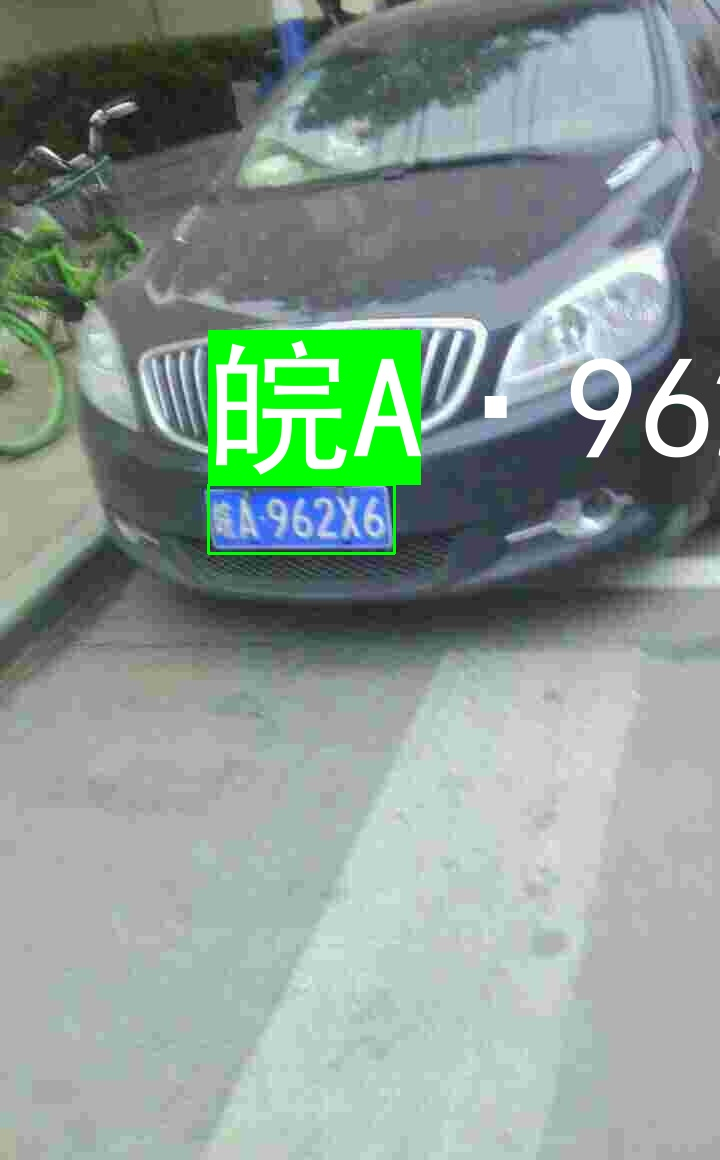
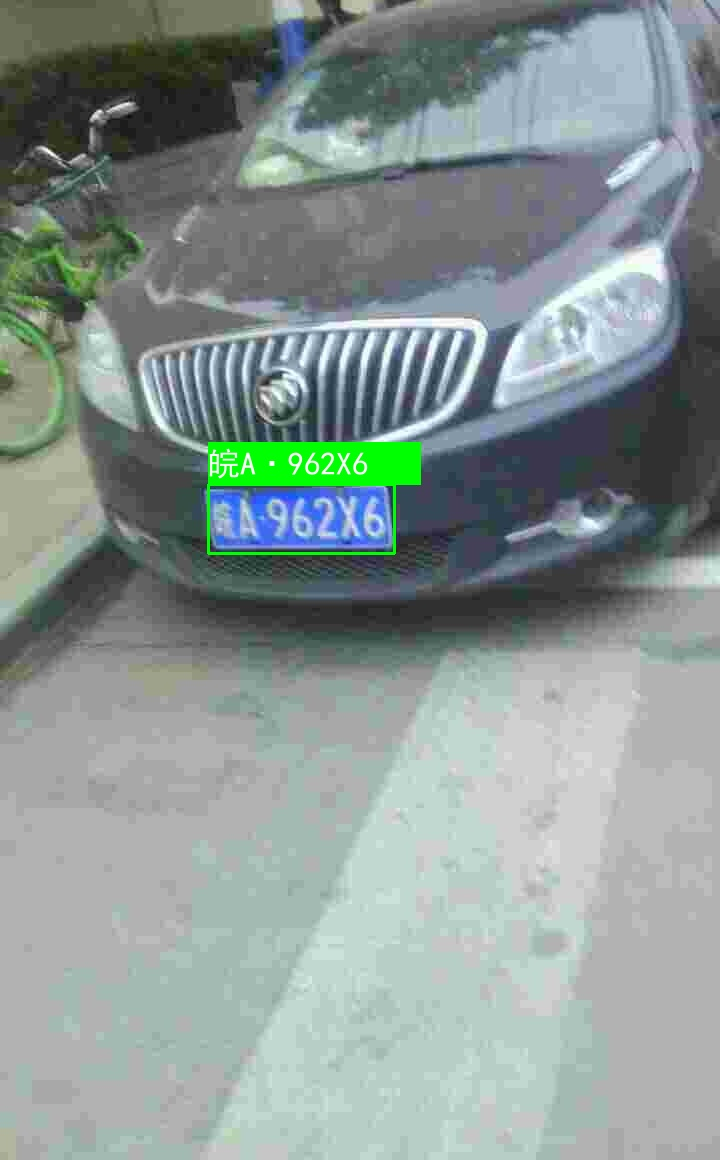
feat: Add YOLO solution files

Changed region(s): [[0.275, 0.2793, 0.6111, 0.4345], [0.7944, 0.3103, 1.0, 0.4034], [0.6722, 0.3414, 0.7028, 0.3724]]

diff --git a/YOLO/姚金言202511160210/必要的项目源代码/test.py b/YOLO/姚金言202511160210/必要的项目源代码/test.py
@@ -1,0 +1,155 @@
+
+# -*- coding: utf-8 -*-
+
+import warnings
+import os
+from ultralytics import YOLO
+import cv2
+import numpy as np
+
+from paddleocr import PaddleOCR
+from PIL import Image, ImageDraw, ImageFont # 导入Pillow库
+
+# 忽略一些不必要的警告信息
+warnings.filterwarnings('ignore')
+
+
+def process_plate_with_user_logic(image_data, ocr_engine, lang='ch'):
+
+    full_text = ""
+    try:
+        if image_data is None or image_data.size == 0:
+            print("错误：传入的图像数据为空")
+            return "Error"
+        print(f"    -> 传入OCR的图片尺寸：{image_data.shape[1]}x{image_data.shape[0]}")
+        print("    -> 正在执行OCR识别...")
+        result = ocr_engine.predict(input=image_data)
+        if not result or not result[0]:
+            print("    -> 未检测到任何文字")
+            return "No Text"
+
+        ocr_result = result[0]
+        if isinstance(ocr_result, dict) and 'rec_texts' in ocr_result:
+            rec_texts = ocr_result['rec_texts']
+        elif hasattr(ocr_result, 'rec_texts'):
+            rec_texts = ocr_result.rec_texts
+        else:
+            return "Format Error"
+        if not rec_texts:
+            return "No Text"
+        full_text = ''.join(rec_texts)
+        print(f"    车牌号: {full_text}")
+    except Exception as e:
+        print(f"    OCR识别过程中发生错误：{e}")
+        full_text = "OCR Error"
+    return full_text
+
+def draw_text_with_chinese(image, text, position, font_path, font_size):
+
+    # 将OpenCV图像 (BGR) 转换为Pillow图像 (RGB)
+    img_pil = Image.fromarray(cv2.cvtColor(image, cv2.COLOR_BGR2RGB))
+
+    # 创建一个画笔
+    draw = ImageDraw.Draw(img_pil)
+
+    # 加载字体
+    try:
+        font = ImageFont.truetype(font_path, font_size, encoding="utf-8")
+    except IOError:
+        print(f"警告：无法加载字体文件 {font_path}。将使用默认字体（不支持中文）。")
+        font = ImageFont.load_default()
+
+    # 绘制文本 (白色)
+    draw.text(position, text, font=font, fill=(255, 255, 255))
+
+    # 将Pillow图像转换回OpenCV图像 (BGR)
+    img_cv2 = cv2.cvtColor(np.array(img_pil), cv2.COLOR_RGB2BGR)
+
+    return img_cv2
+
+
+def main():
+
+    # --- 1. 初始化模型 ---
+    print("正在初始化YOLO模型...")
+    yolo_model = YOLO(r'C:\Users\27800\runs\detect\train3\weights\best.pt')
+    print("正在初始化OCR引擎...")
+    ocr_engine = PaddleOCR(lang='ch')
+    print("所有模型初始化成功。")
+
+    # --- 2. ***** 重要配置区 ***** ---
+    source_path = r'D:\yolo\yolo\test\images'
+    output_project_path = r'detect'
+    output_run_name = 'my_final_results'
+
+
+    font_path = 'simhei.ttf'  # 确保这个字体文件和脚本在同一个目录下
+    font_size = 32
+
+    class_names = yolo_model.names
+    PLATE_CLASS_NAME = 'license_plate'
+
+
+    output_dir = os.path.join(output_project_path, output_run_name)
+    os.makedirs(output_dir, exist_ok=True)
+
+
+
+    results_iterator = yolo_model.predict(
+        source=source_path, save=False, conf=0.25, iou=0.45, device=0, stream=True
+    )
+
+    # --- 4. 遍历检测结果并进行处理 ---
+    for results in results_iterator:
+        print(f"\n--- 正在处理图片: {results.path} ---")
+
+        image_to_draw = results.orig_img.copy()
+
+        if results.boxes is not None and len(results.boxes) > 0:
+            for box in results.boxes:
+                class_id = int(box.cls[0])
+                class_name = class_names[class_id]
+                confidence = float(box.conf[0])
+                print(f"  [检测到] 类别: '{class_name}', 置信度: {confidence:.2f}")
+
+                bbox = box.xyxy[0].cpu().numpy().astype(int)
+                x1, y1, x2, y2 = bbox
+                label_text = class_name
+
+                if class_name == PLATE_CLASS_NAME:
+                    cropped_plate_img = results.orig_img[y1:y2, x1:x2]
+                    plate_number = process_plate_with_user_logic(cropped_plate_img, ocr_engine)
+                    if plate_number and plate_number not in ["No Text", "Error", "Format Error", "OCR Error"]:
+                        label_text = plate_number
+
+
+
+                cv2.rectangle(image_to_draw, (x1, y1), (x2, y2), (0, 255, 0), 2)
+
+
+                text_position_x = x1
+                text_position_y = y1 - font_size - 5 if y1 - font_size - 5 > 0 else y1 + 5
+
+                label_w, label_h = cv2.getTextSize(label_text, cv2.FONT_HERSHEY_PLAIN, 2, 2)[0] # 估算一下背景大小
+                cv2.rectangle(image_to_draw, (x1, text_position_y - 5), (x1 + label_w, text_position_y + font_size + 5), (0, 255, 0), cv2.FILLED)
+
+
+                image_to_draw = draw_text_with_chinese(
+                    image_to_draw,
+                    label_text,
+                    (text_position_x, text_position_y),
+                    font_path,
+                    font_size
+                )
+
+
+        output_image_path = os.path.join(output_dir, os.path.basename(results.path))
+        cv2.imwrite(output_image_path, image_to_draw)
+        print(f"  结果图已保存至: {output_image_path}")
+
+
+
+
+if __name__ == '__main__':
+    main()
+

diff --git a/YOLO/姚金言202511160210/level5.md b/YOLO/姚金言202511160210/level5.md
@@ -1,0 +1,21 @@
+## level5：结合 OCR 进行车牌字符识别
+
+这是一个充满曲折的level5，报错报错还是报错。
+
+### 1.安装OCR库
+
+我们需要在虚拟环境中安装PaddlePaddle 和 PaddleOCR。
+
+由于我的电脑有NVIDIA显卡且配置了CUDA，我想下载gpu版本。ai让我运行``pip install paddlepaddle-gpu -i https://mirror.baidu.com/pypi/simple``命令完成下载。
+
+butbutbutbut出现报错，pip找不到一个能匹配我当前环境的安装包。我于是转战官网……
+
+（此处省略一个漫长的下载过程……
+
+接下来是paddleocr
+
+butbutbutbutbutbutbutbutbutbut安装出现了一系列的问题，报错报错还是报错。
+
+根据ai的指示一个个排查报错原因，最终发现paddleocr尚未推出支持英伟达50系显卡的版本。
+
+只好换成cpu版本的下载，下载完成后，在终端中运行ai提供的代码。
